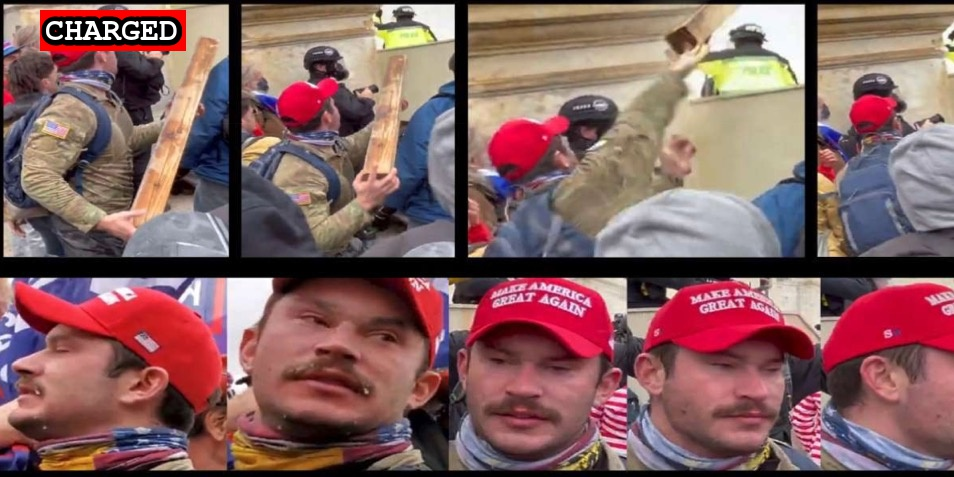
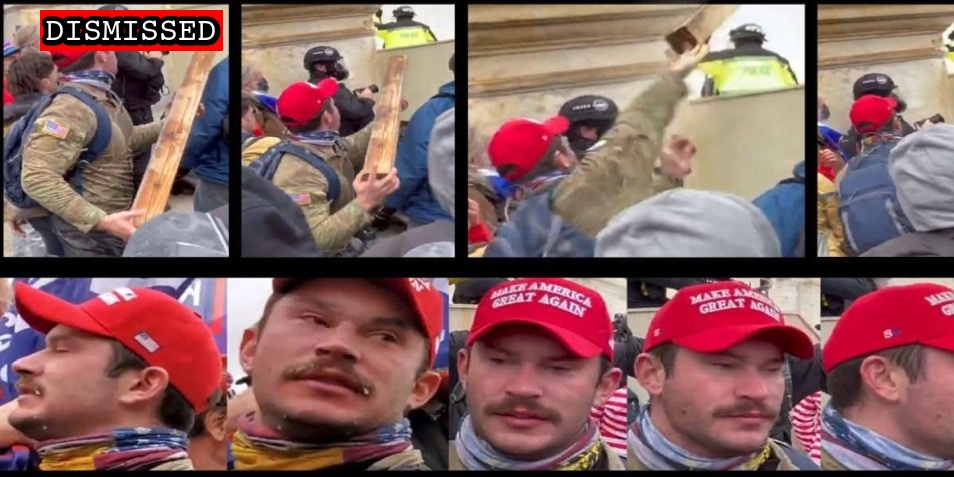
Dismissed suspect

Changed region(s): [[0.0304, 0.0, 0.2432, 0.1174]]

diff --git a/commands/suspect-preview.ts b/commands/suspect-preview.ts
@@ -25,6 +25,8 @@ const generatePreview = (previewImage, status) => {
         return 221;
       case "ACQUITTED":
         return 225;
+      case "DISMISSED":
+        return 222;
       default:
         return 200;
     }

diff --git a/docs/_suspects/dillon-herrington.md b/docs/_suspects/dillon-herrington.md
@@ -4,14 +4,14 @@ lastName: Herrington
 hashtag: MagaLumberjack
 aka:
 residence: Alabama
-status: Charged
+status: Dismissed
 date: 2021-06-07
 charged: 2021-06-07
 indicted:
 convicted:
 acquitted:
 sentenced:
-dismissed:
+dismissed: 2023-06-09
 deceased:
 plea_hearing:
 trial_date:
@@ -43,5 +43,6 @@ videos:
 charges:
 sentence:
 ---
+
 - [News Report](https://www.waff.com/2021/06/08/court-documents-state-madison-man-nicknamed-magalumberjack-charged-with-assaulting-federal-officer-january-6-riot/)
 - [Statement of Facts](https://www.justice.gov/usao-dc/case-multi-defendant/file/1402556/download)
